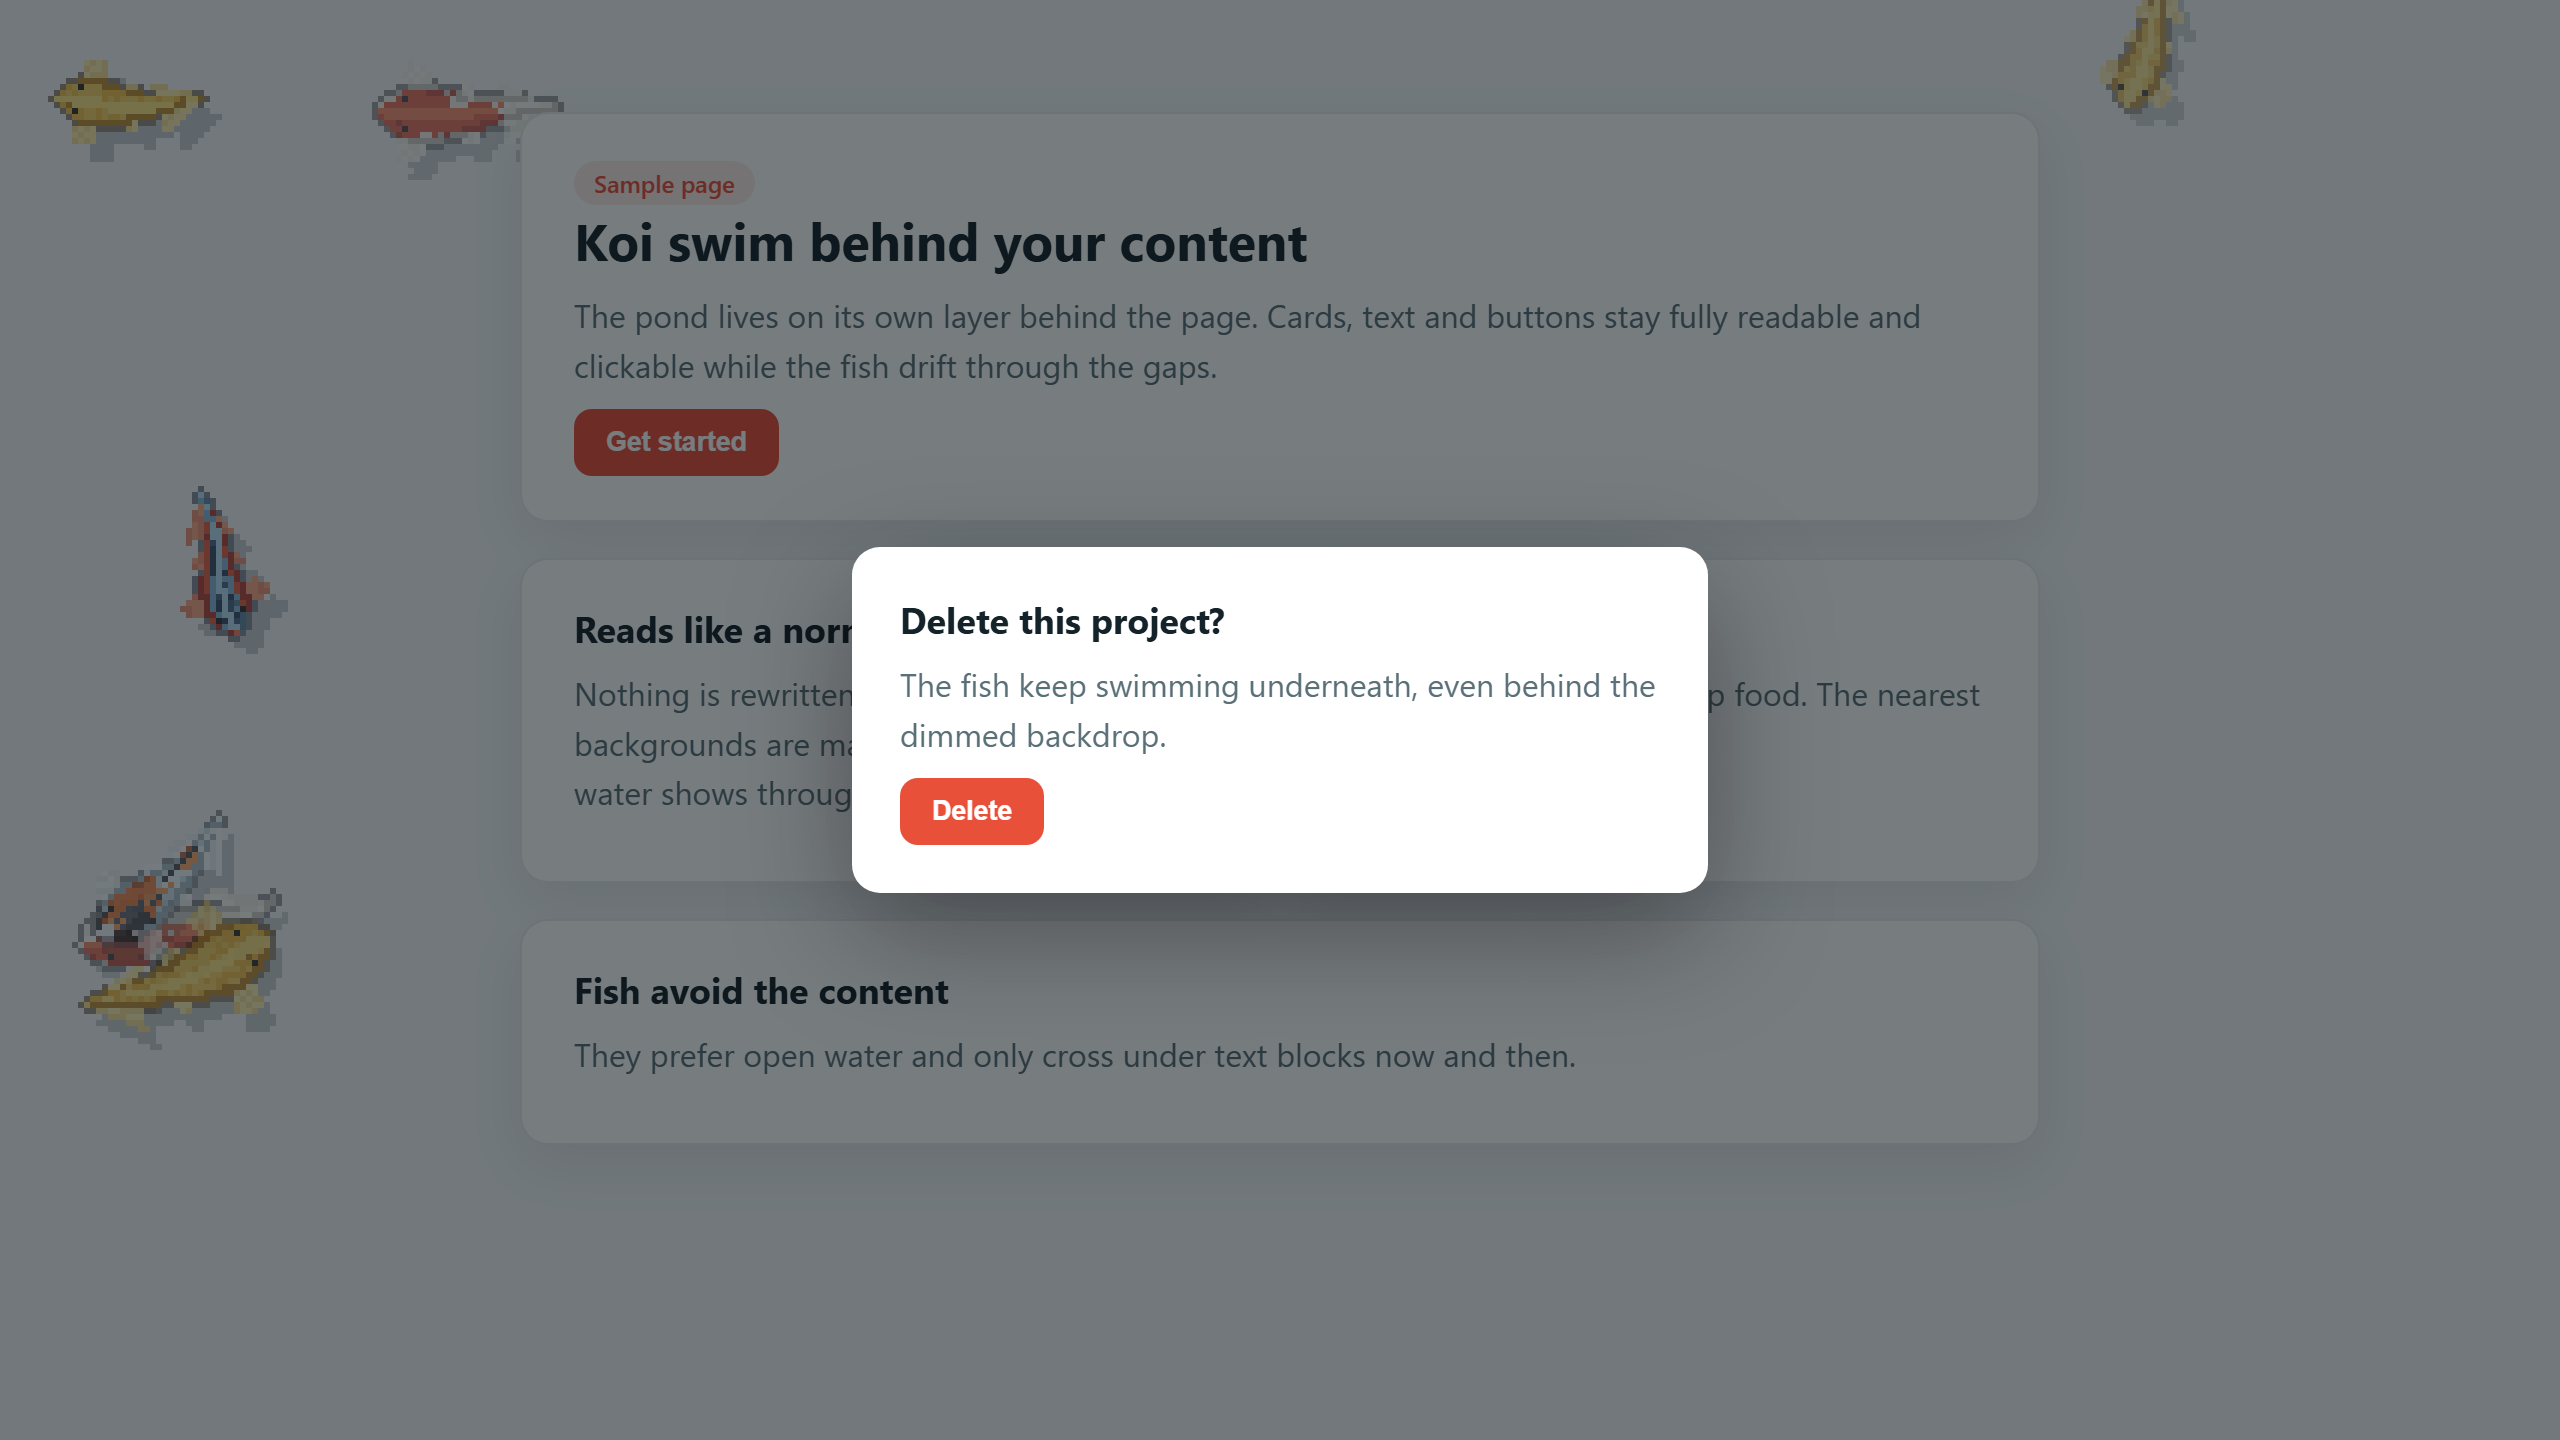
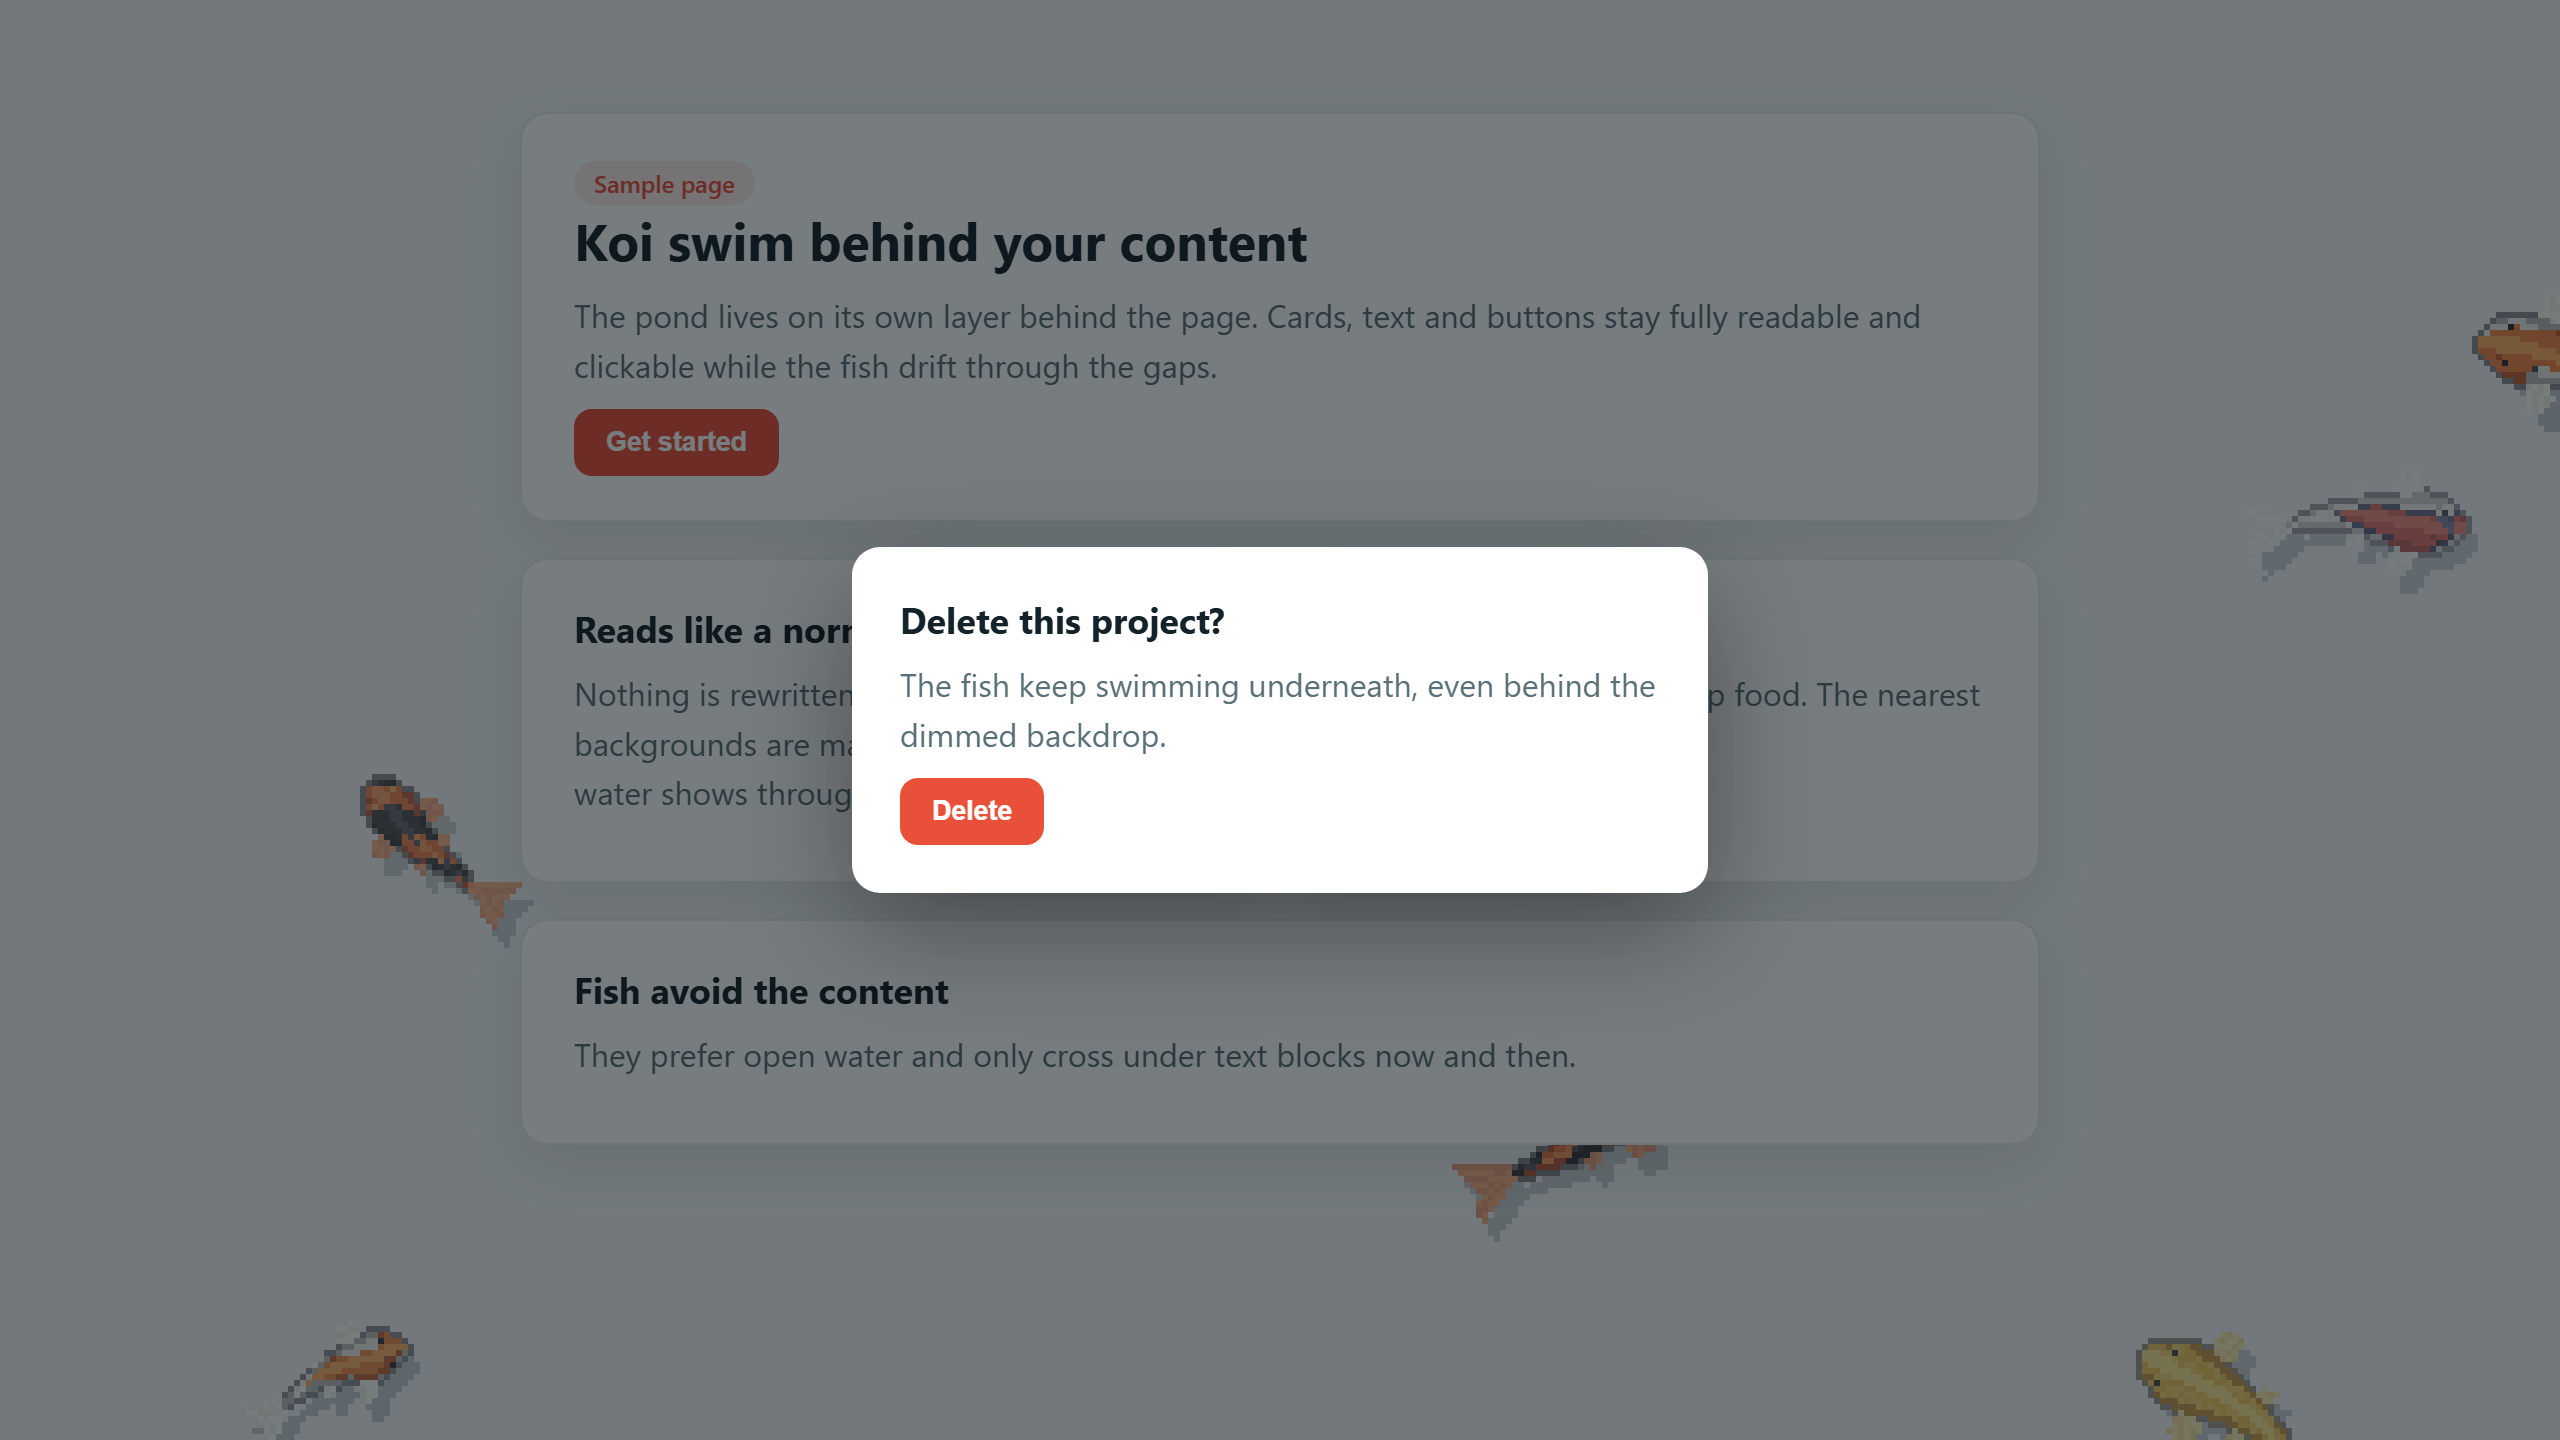
Fix koi anatomy: the tail fin pointed forward under the body, fins swept forward; refresh README media

diff --git a/src/content/koi-renderer.js b/src/content/koi-renderer.js
@@ -315,13 +315,15 @@
       }
     }
 
-    // Mirrored left/right fins at the spine sample `sp`
+    // Mirrored left/right fins at the spine sample `sp`, swept back by (PI - sweep) from the fish's
+    // heading. The spine runs head to tail, so the sample tangent (tx, ty) points TOWARD THE TAIL;
+    // the forward direction is its opposite.
     stampFinPair(sp, offset, sweep, spreadAngle, length, rays, shadowOx, shadowOy) {
-      const angle = Math.atan2(sp.ty, sp.tx);
+      const angle = Math.atan2(-sp.ty, -sp.tx);
       this.stampFinFan(
         sp.x + sp.nx * offset,
         sp.y + sp.ny * offset,
-        angle + sweep,
+        angle - sweep,
         spreadAngle,
         length,
         rays,
@@ -331,7 +333,7 @@
       this.stampFinFan(
         sp.x - sp.nx * offset,
         sp.y - sp.ny * offset,
-        angle - sweep,
+        angle + sweep,
         spreadAngle,
         length,
         rays,
@@ -391,7 +393,8 @@
       this.stampFinPair(sp, 1.4 * size, 2.25 + pecWave * 0.5, 0.55, 3.5 * size, 4, shadowOx, shadowOy);
 
       sampleSpineOut(spine, nSeg, 0.98, ox, oy, sp);
-      const tailAngle = Math.atan2(-sp.ty, -sp.tx) + Math.sin(fish.swimPhase - 3.6) * 0.28;
+      // The tail fan points away from the body: along the tail-ward tangent
+      const tailAngle = Math.atan2(sp.ty, sp.tx) + Math.sin(fish.swimPhase - 3.6) * 0.28;
       this.stampFinFan(sp.x, sp.y, tailAngle, 1.05, 8.4 * size, 8, shadowOx, shadowOy, true);
     }
 
@@ -429,7 +432,7 @@
       // Barbels (tiny koi whiskers) only on medium/large fish
       if (size >= 0.95) {
         sampleSpineOut(spine, nSeg, 0.02, ox, oy, sp);
-        const bAng = Math.atan2(sp.ty, sp.tx);
+        const bAng = Math.atan2(-sp.ty, -sp.tx); // forward, from the snout
         for (let side = -1; side <= 1; side += 2) {
           const wx = Math.round(sp.x + Math.cos(bAng + side * 0.85) * 2.1 * size);
           const wy = Math.round(sp.y + Math.sin(bAng + side * 0.85) * 2.1 * size);
